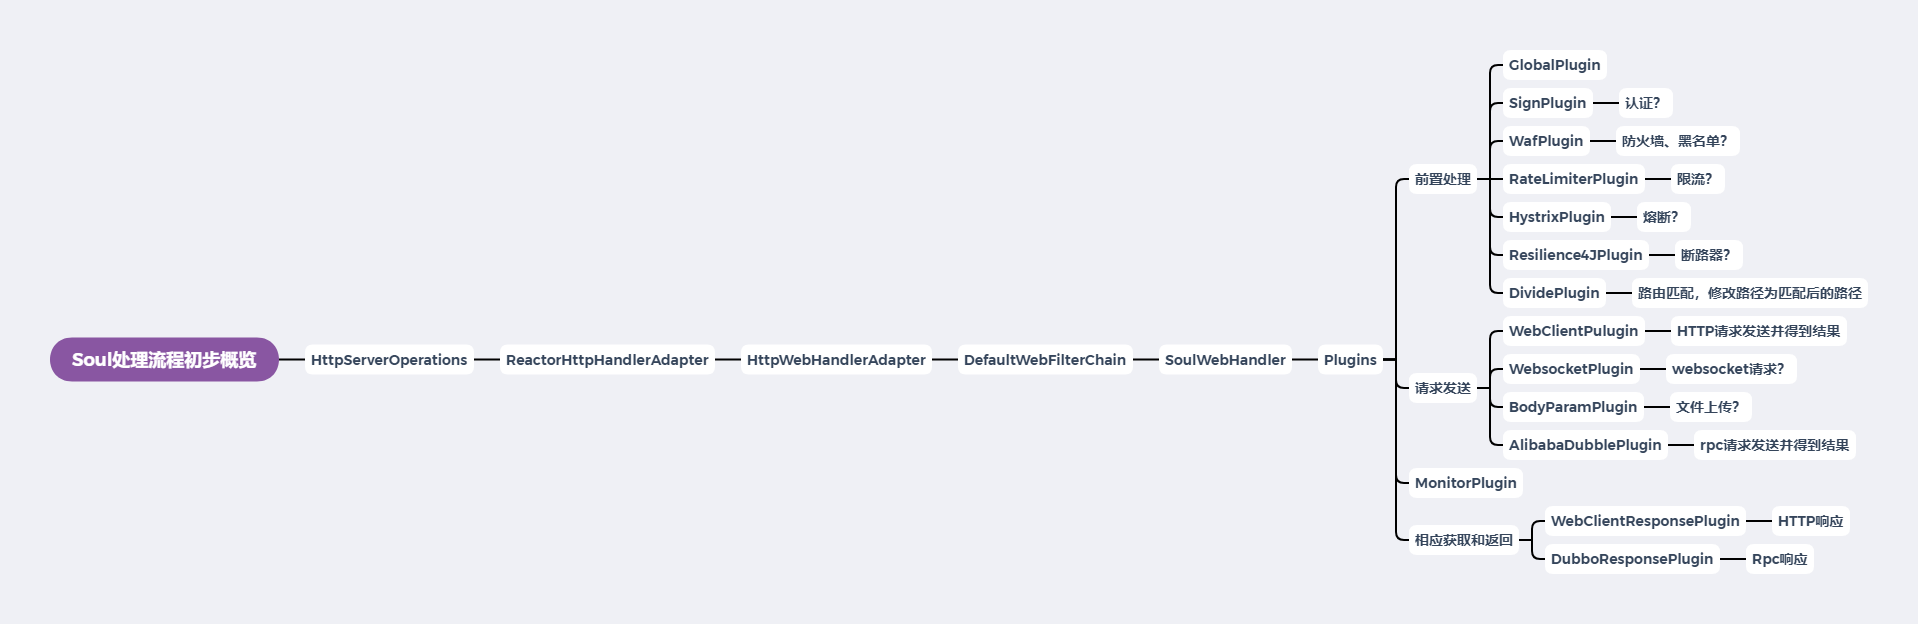
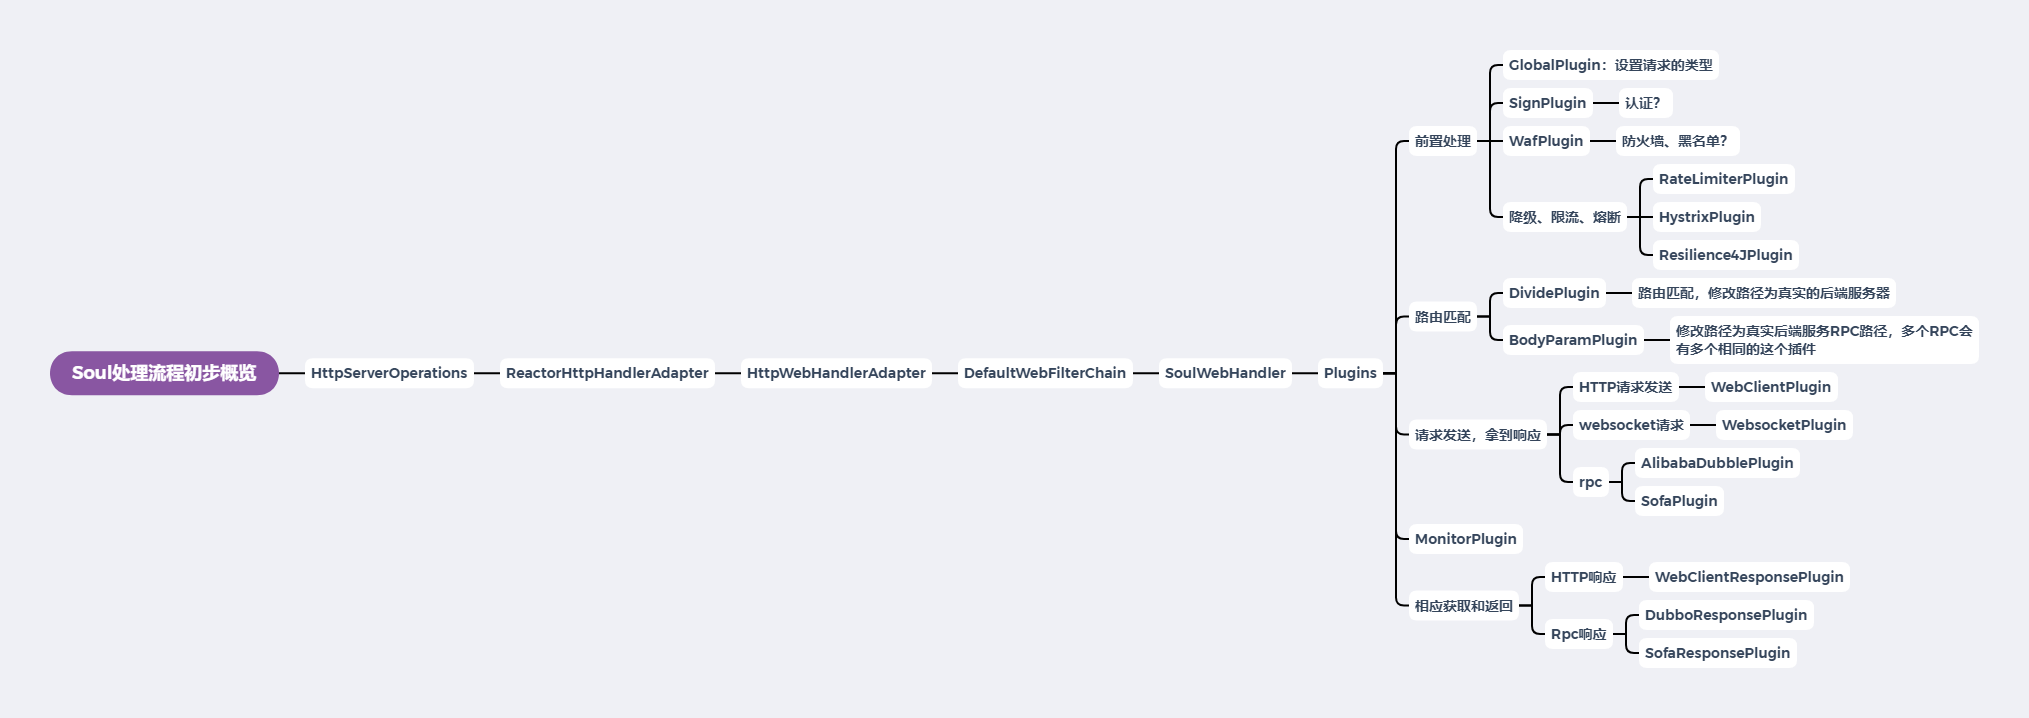
Soul 网关源码阅读（五）Sofa请求处理概览

diff --git a/profession/program/开源/soul/soul源码阅读6-sofa请求处理概览.md b/profession/program/开源/soul/soul源码阅读6-sofa请求处理概览.md
@@ -1,0 +1,356 @@
+# Soul 网关源码阅读（五）Sofa请求处理概览
+***
+## 简介
+&ensp;&ensp;&ensp;&ensp;今天来探索一下Sofa请求处理流程，看看和前面的HTTP、Dubbo有什么异同
+
+## Sofa示例运行
+*PS：如果请求加上参数运行不成功，请更新最新版本，此问题在新版本中已经修复：https://blog.csdn.net/baidu_27627251/article/details/112726694*
+*[Add sofa param resolve service](https://github.com/dromara/soul/pull/992)*
+
+&ensp;&ensp;&ensp;&ensp;首先运行下官方的Sofa示例，首先启动下mysql和zookeeper，这里使用docker启动：
+
+```shell script
+docker run -dit --name zk -p 2181:2181 zookeepe
+docker run --name mysql -p 3306:3306 -e MYSQL_ROOT_PASSWORD=123456 -d mysql:latest
+```
+
+&ensp;&ensp;&ensp;&ensp;然后运行Soul-admin，Soul-Bootst，在管理图界面起用sofa插件
+
+&ensp;&ensp;&ensp;&ensp;运行官方示例：soul-examples --> soul-examples-sofa
+
+&ensp;&ensp;&ensp;&ensp;这里有个坑，需要注意，启动后，bootstrap打印日志中没有sofa插件，请求一直失败
+
+```xml
+o.d.s.w.configuration.SoulConfiguration  : load plugin:[global] [org.dromara.soul.plugin.global.GlobalPlugin]
+o.d.s.w.configuration.SoulConfiguration  : load plugin:[sign] [org.dromara.soul.plugin.sign.SignPlugin]
+o.d.s.w.configuration.SoulConfiguration  : load plugin:[waf] [org.dromara.soul.plugin.waf.WafPlugin]
+o.d.s.w.configuration.SoulConfiguration  : load plugin:[rate_limiter] [org.dromara.soul.plugin.ratelimiter.RateLimiterPlugin]
+o.d.s.w.configuration.SoulConfiguration  : load plugin:[hystrix] [org.dromara.soul.plugin.hystrix.HystrixPlugin]
+o.d.s.w.configuration.SoulConfiguration  : load plugin:[resilience4j] [org.dromara.soul.plugin.resilience4j.Resilience4JPlugin]
+o.d.s.w.configuration.SoulConfiguration  : load plugin:[divide] [org.dromara.soul.plugin.divide.DividePlugin]
+o.d.s.w.configuration.SoulConfiguration  : load plugin:[webClient] [org.dromara.soul.plugin.httpclient.WebClientPlugin]
+o.d.s.w.configuration.SoulConfiguration  : load plugin:[divide] [org.dromara.soul.plugin.divide.websocket.WebSocketPlugin]
+o.d.s.w.configuration.SoulConfiguration  : load plugin:[alibaba-dubbo-body-param] [org.dromara.soul.plugin.alibaba.dubbo.param.BodyParamPlugin]
+o.d.s.w.configuration.SoulConfiguration  : load plugin:[dubbo] [org.dromara.soul.plugin.alibaba.dubbo.AlibabaDubboPlugin]
+o.d.s.w.configuration.SoulConfiguration  : load plugin:[monitor] [org.dromara.soul.plugin.monitor.MonitorPlugin]
+o.d.s.w.configuration.SoulConfiguration  : load plugin:[response] [org.dromara.soul.plugin.httpclient.response.WebClientResponsePlugin]
+o.d.s.w.configuration.SoulConfiguration  : load plugin:[response] [org.dromara.soul.plugin.alibaba.dubbo.response.DubboResponsePlugin]
+```xml
+
+&ensp;&ensp;&ensp;&ensp;查看初始的plugins也是没有sofa
+
+```java
+    public SoulWebHandler soulWebHandler(final ObjectProvider<List<SoulPlugin>> plugins) {
+        List<SoulPlugin> pluginList = plugins.getIfAvailable(Collections::emptyList);
+        final List<SoulPlugin> soulPlugins = pluginList.stream()
+                .sorted(Comparator.comparingInt(SoulPlugin::getOrder)).collect(Collectors.toList());
+        soulPlugins.forEach(soulPlugin -> log.info("load plugin:[{}] [{}]", soulPlugin.named(), soulPlugin.getClass().getName()));
+        return new SoulWebHandler(soulPlugins);
+    }
+```
+
+&ensp;&ensp;&ensp;&ensp;经过探索和老哥的讨论，发现是每天起用sofa的相关依赖
+
+&ensp;&ensp;&ensp;&ensp;我们在Bootstrap的pom.xml文件中添加下面的依赖，然后重启
+
+```xml
+        <!--        sofa plugin start-->
+        <dependency>
+            <groupId>com.alipay.sofa</groupId>
+            <artifactId>sofa-rpc-all</artifactId>
+            <version>5.7.6</version>
+        </dependency>
+        <dependency>
+            <groupId>org.apache.curator</groupId>
+            <artifactId>curator-client</artifactId>
+            <version>4.0.1</version>
+        </dependency>
+        <dependency>
+            <groupId>org.apache.curator</groupId>
+            <artifactId>curator-framework</artifactId>
+            <version>4.0.1</version>
+        </dependency>
+        <dependency>
+            <groupId>org.apache.curator</groupId>
+            <artifactId>curator-recipes</artifactId>
+            <version>4.0.1</version>
+        </dependency>
+        <dependency>
+            <groupId>org.dromara</groupId>
+            <artifactId>soul-spring-boot-starter-plugin-sofa</artifactId>
+            <version>${project.version}</version>
+        </dependency>
+        <!--        sofa plugin end-->
+```
+
+&ensp;&ensp;&ensp;&ensp;然后查看日志打印，出现了sofa相关的插件
+
+```xml
+o.d.s.w.configuration.SoulConfiguration  : load plugin:[global] [org.dromara.soul.plugin.global.GlobalPlugin]
+o.d.s.w.configuration.SoulConfiguration  : load plugin:[sign] [org.dromara.soul.plugin.sign.SignPlugin]
+o.d.s.w.configuration.SoulConfiguration  : load plugin:[waf] [org.dromara.soul.plugin.waf.WafPlugin]
+o.d.s.w.configuration.SoulConfiguration  : load plugin:[rate_limiter] [org.dromara.soul.plugin.ratelimiter.RateLimiterPlugin]
+o.d.s.w.configuration.SoulConfiguration  : load plugin:[hystrix] [org.dromara.soul.plugin.hystrix.HystrixPlugin]
+o.d.s.w.configuration.SoulConfiguration  : load plugin:[resilience4j] [org.dromara.soul.plugin.resilience4j.Resilience4JPlugin]
+o.d.s.w.configuration.SoulConfiguration  : load plugin:[divide] [org.dromara.soul.plugin.divide.DividePlugin]
+o.d.s.w.configuration.SoulConfiguration  : load plugin:[webClient] [org.dromara.soul.plugin.httpclient.WebClientPlugin]
+o.d.s.w.configuration.SoulConfiguration  : load plugin:[divide] [org.dromara.soul.plugin.divide.websocket.WebSocketPlugin]
+o.d.s.w.configuration.SoulConfiguration  : load plugin:[sofa-body-param] [org.dromara.soul.plugin.sofa.param.BodyParamPlugin]
+o.d.s.w.configuration.SoulConfiguration  : load plugin:[dubbo] [org.dromara.soul.plugin.alibaba.dubbo.AlibabaDubboPlugin]
+// 新出现的sofa相关的
+o.d.s.w.configuration.SoulConfiguration  : load plugin:[sofa] [org.dromara.soul.plugin.sofa.SofaPlugin]
+o.d.s.w.configuration.SoulConfiguration  : load plugin:[monitor] [org.dromara.soul.plugin.monitor.MonitorPlugin]
+o.d.s.w.configuration.SoulConfiguration  : load plugin:[response] [org.dromara.soul.plugin.alibaba.dubbo.response.DubboResponsePlugin]
+o.d.s.w.configuration.SoulConfiguration  : load plugin:[response] [org.dromara.soul.plugin.httpclient.response.WebClientResponsePlugin]
+// 新出现的sofa相关的
+o.d.s.w.configuration.SoulConfiguration  : load plugin:[response] [org.dromara.soul.plugin.sofa.response.SofaResponsePlugin]
+```
+
+&ensp;&ensp;&ensp;&ensp;日志中还打印了成功加载sofa相关的metadata
+
+```xml
+o.d.s.p.s.cache.ApplicationConfigCache   : init sofa reference success there meteData is :MetaData
+o.d.s.p.s.cache.ApplicationConfigCache   : init sofa reference success there meteData is :MetaData
+o.d.s.p.s.cache.ApplicationConfigCache   : init sofa reference success there meteData is :MetaData
+```
+
+&ensp;&ensp;&ensp;&ensp;访问链接： http://localhost:9195/sofa/findAll ，成功返回如下请求
+
+```json
+{
+    "code": 200,
+    "message": "Access to success!",
+    "data": {
+        "name": "hello world Soul Sofa , findAll",
+        "id": "998932133"
+    }
+}
+```
+
+## 源码解析
+*PS:Debug时间过程，会导致超时，这是正常的*
+
+&ensp;&ensp;&ensp;&ensp;首先找到我们非常熟悉的切入点函数： SoulWebHandler ，在下面的方法中打上断点，然后逐步进入每个plugin观察其行为
+
+```java
+        public Mono<Void> execute(final ServerWebExchange exchange) {
+            return Mono.defer(() -> {
+                if (this.index < plugins.size()) {
+                    SoulPlugin plugin = plugins.get(this.index++);
+                    Boolean skip = plugin.skip(exchange);
+                    if (skip) {
+                        return this.execute(exchange);
+                    }
+                    return plugin.execute(exchange, this);
+                }
+                return Mono.empty();
+            });
+        }
+```
+
+### GlobalPlugin
+&ensp;&ensp;&ensp;&ensp;进入其中，执行处理逻辑，通过上篇的分析，我们知道大致作用是将请求类型放入exchange中
+
+### SignPlugin/WafPlugin/RateLimiterPlugin/HystrixPlugin/Resilience4JPlugin
+&ensp;&ensp;&ensp;&ensp;进入其中，但plugin没有起用，不执行逻辑
+
+### DividePlugin/WebClientPlugin/WebSocketPlugin
+&ensp;&ensp;&ensp;&ensp;通过类型判断，跳过，不执行
+
+### BodyParamPlugin
+&ensp;&ensp;&ensp;&ensp;这个plugin在dubbo的时候也是要执行，我们来看看它干了写啥事。从下面逻辑中大概能看出先判断是否符合执行条件，然后将请求地址替换成真实的后端地址
+
+```java
+    public Mono<Void> execute(final ServerWebExchange exchange, final SoulPluginChain chain) {
+        final ServerHttpRequest request = exchange.getRequest();
+        final SoulContext soulContext = exchange.getAttribute(Constants.CONTEXT);
+        // 判断类型是不是sofa
+        if (Objects.nonNull(soulContext) && RpcTypeEnum.SOFA.getName().equals(soulContext.getRpcType())) {
+            MediaType mediaType = request.getHeaders().getContentType();
+            ServerRequest serverRequest = ServerRequest.create(exchange, messageReaders);
+            if (MediaType.APPLICATION_JSON.isCompatibleWith(mediaType)) {
+                return body(exchange, serverRequest, chain);
+            }
+            if (MediaType.APPLICATION_FORM_URLENCODED.isCompatibleWith(mediaType)) {
+                return formData(exchange, serverRequest, chain);
+            }
+            // 进行路径替换，换成后端服务器的
+            return query(exchange, serverRequest, chain);
+        }
+        return chain.execute(exchange);
+    }
+
+    private Mono<Void> query(final ServerWebExchange exchange, final ServerRequest serverRequest, final SoulPluginChain chain) {
+        exchange.getAttributes().put(Constants.SOFA_PARAMS,
+                HttpParamConverter.ofString(() -> serverRequest.uri().getQuery()));
+        return chain.execute(exchange);
+    }
+```
+
+&ensp;&ensp;&ensp;&ensp;这里有个非常有趣的现象，我们第四篇分析中，dubbo也走了一模一样的类，在上面函数逻辑中，我们看出它并不能兼容dubbo，那dubbo是如何走这个类的呢？
+
+&ensp;&ensp;&ensp;&ensp;通过调试我们发现，当同时启动dubbo和sofa的时候，会生成两个BodyParamPlugin,名称是一模一样的，但里面的判断类型换了，很神奇，猜测这个类是动态生成之类的手段，这里先不探索了，可以后面研究研究
+
+### AlibabaDubboPlugin
+&ensp;&ensp;&ensp;&ensp;通过类型判断，跳过
+
+### SofaPlugin
+&ensp;&ensp;&ensp;&ensp;这个从名字就看出来是核心类，我们看看它具体干了啥。通过下面注释的地方，可以看出和dubbo请求的非常的相像。进行路由匹配，成功后rpc调用，获得结果后放入exchange中
+
+```java
+    # AbstractSoulPlugin
+    public Mono<Void> execute(final ServerWebExchange exchange, final SoulPluginChain chain) {
+        String pluginName = named();
+        final PluginData pluginData = BaseDataCache.getInstance().obtainPluginData(pluginName);
+        if (pluginData != null && pluginData.getEnabled()) {
+            final Collection<SelectorData> selectors = BaseDataCache.getInstance().obtainSelectorData(pluginName);
+            if (CollectionUtils.isEmpty(selectors)) {
+                return handleSelectorIsNull(pluginName, exchange, chain);
+            }
+            final SelectorData selectorData = matchSelector(exchange, selectors);
+            if (Objects.isNull(selectorData)) {
+                return handleSelectorIsNull(pluginName, exchange, chain);
+            }
+            selectorLog(selectorData, pluginName);
+            final List<RuleData> rules = BaseDataCache.getInstance().obtainRuleData(selectorData.getId());
+            if (CollectionUtils.isEmpty(rules)) {
+                return handleRuleIsNull(pluginName, exchange, chain);
+            }
+            // 判断是否有路由规则能匹配上
+            RuleData rule;
+            if (selectorData.getType() == SelectorTypeEnum.FULL_FLOW.getCode()) {
+                //get last
+                rule = rules.get(rules.size() - 1);
+            } else {
+                rule = matchRule(exchange, rules);
+            }
+            if (Objects.isNull(rule)) {
+                return handleRuleIsNull(pluginName, exchange, chain);
+            }
+            ruleLog(rule, pluginName);
+            // 匹配上后执行处理逻辑
+            return doExecute(exchange, chain, selectorData, rule);
+        }
+        return chain.execute(exchange);
+    }
+
+    # SofaPlugin
+    protected Mono<Void> doExecute(final ServerWebExchange exchange, final SoulPluginChain chain, final SelectorData selector, final RuleData rule) {
+        String body = exchange.getAttribute(Constants.SOFA_PARAMS);
+        SoulContext soulContext = exchange.getAttribute(Constants.CONTEXT);
+        assert soulContext != null;
+        MetaData metaData = exchange.getAttribute(Constants.META_DATA);
+        if (!checkMetaData(metaData)) {
+            assert metaData != null;
+            log.error(" path is :{}, meta data have error.... {}", soulContext.getPath(), metaData.toString());
+            exchange.getResponse().setStatusCode(HttpStatus.INTERNAL_SERVER_ERROR);
+            Object error = SoulResultWrap.error(SoulResultEnum.META_DATA_ERROR.getCode(), SoulResultEnum.META_DATA_ERROR.getMsg(), null);
+            return WebFluxResultUtils.result(exchange, error);
+        }
+        if (StringUtils.isNoneBlank(metaData.getParameterTypes()) && StringUtils.isBlank(body)) {
+            exchange.getResponse().setStatusCode(HttpStatus.INTERNAL_SERVER_ERROR);
+            Object error = SoulResultWrap.error(SoulResultEnum.SOFA_HAVE_BODY_PARAM.getCode(), SoulResultEnum.SOFA_HAVE_BODY_PARAM.getMsg(), null);
+            return WebFluxResultUtils.result(exchange, error);
+        }
+        // 这里得到结果，跟下去
+        final Mono<Object> result = sofaProxyService.genericInvoker(body, metaData, exchange);
+        return result.then(chain.execute(exchange));
+    }
+
+    # SofaProxyService
+    public Mono<Object> genericInvoker(final String body, final MetaData metaData, final ServerWebExchange exchange) throws SoulException {
+        // 根据请求路径，获得rpc中的consumer 
+        ConsumerConfig<GenericService> reference = ApplicationConfigCache.getInstance().get(metaData.getPath());
+        if (Objects.isNull(reference) || StringUtils.isEmpty(reference.getInterfaceId())) {
+            ApplicationConfigCache.getInstance().invalidate(metaData.getServiceName());
+            reference = ApplicationConfigCache.getInstance().initRef(metaData);
+        }
+        GenericService genericService = reference.refer();
+        Pair<String[], Object[]> pair;
+        if (null == body || "".equals(body) || "{}".equals(body) || "null".equals(body)) {
+            pair = new ImmutablePair<>(new String[]{}, new Object[]{});
+        } else {
+            pair = sofaParamResolveService.buildParameter(body, metaData.getParameterTypes());
+        }
+        CompletableFuture<Object> future = new CompletableFuture<>();
+        RpcInvokeContext.getContext().setResponseCallback(new SofaResponseCallback<Object>() {
+            @Override
+            public void onAppResponse(final Object o, final String s, final RequestBase requestBase) {
+                future.complete(o);
+            }
+
+            @Override
+            public void onAppException(final Throwable throwable, final String s, final RequestBase requestBase) {
+                future.completeExceptionally(throwable);
+            }
+
+            @Override
+            public void onSofaException(final SofaRpcException e, final String s, final RequestBase requestBase) {
+                future.completeExceptionally(e);
+            }
+        });
+        // 通过函数名，能猜到是rpc调用，然后得到结果，并将结果放入exchange中
+        genericService.$invoke(metaData.getMethodName(), pair.getLeft(), pair.getRight());
+        return Mono.fromFuture(future.thenApply(ret -> {
+            if (Objects.isNull(ret)) {
+                ret = Constants.SOFA_RPC_RESULT_EMPTY;
+            }
+            exchange.getAttributes().put(Constants.SOFA_RPC_RESULT, ret);
+            exchange.getAttributes().put(Constants.CLIENT_RESPONSE_RESULT_TYPE, ResultEnum.SUCCESS.getName());
+            return ret;
+        })).onErrorMap(SoulException::new);
+    }
+```
+### MonitorPlugin
+&ensp;&ensp;&ensp;&ensp;不跳过，但插件没有开启
+
+### DubboResponsePlugin/WebClientResponsePlugin
+&ensp;&ensp;&ensp;&ensp;通过类型判断，跳过执行
+
+### SofaResponsePlugin
+&ensp;&ensp;&ensp;&ensp;通过上几篇分析和名字能猜出来是将响应返回给客户端的，通过下面代码的逻辑也可以看出 
+
+```java
+    public Mono<Void> execute(final ServerWebExchange exchange, final SoulPluginChain chain) {
+        return chain.execute(exchange).then(Mono.defer(() -> {
+            // 从exchange中获取结果
+            final Object result = exchange.getAttribute(Constants.SOFA_RPC_RESULT);
+            if (Objects.isNull(result)) {
+                Object error = SoulResultWrap.error(SoulResultEnum.SERVICE_RESULT_ERROR.getCode(), SoulResultEnum.SERVICE_RESULT_ERROR.getMsg(), null);
+                return WebFluxResultUtils.result(exchange, error);
+            }
+            Object success = SoulResultWrap.success(SoulResultEnum.SUCCESS.getCode(), SoulResultEnum.SUCCESS.getMsg(), JsonUtils.removeClass(result));
+            // 熟悉的返回响应的函数
+            return WebFluxResultUtils.result(exchange, success);
+        }));
+    }
+```
+
+## 总结
+&ensp;&ensp;&ensp;&ensp;上面的plugin流程大致如下：
+
+- GlobalPlugin : 将请求类型置入
+- SignPlugin : 跳过不执行逻辑
+- WafPlugin : 跳过不执行逻辑
+- RateLimiterPlugin : 跳过不执行逻辑
+- HystrixPlugin : 跳过不执行逻辑
+- Resilience4JPlugin : 跳过不执行逻辑
+- DividePlugin : 跳过不执行逻辑
+- WebClientPlugin : 跳过不执行逻辑
+- WebSocketPlugin : 跳过不执行逻辑
+- BodyParamPlugin : 执行RPC的请求路径替换，替换成真实的服务器后端路径，作用类似于dividePlugin；不同rpc有相关的这个插件名，也就是会有多个BodyParamPlugin
+- AlibabaDubboPlugin : 跳过不执行逻辑
+- SofaPlugin : 发送请求到后台服务器，拿到结果，写入exchange
+- MonitorPlugin : 跳过不执行逻辑
+- DubboResponsePlugin : 跳过不执行逻辑
+- WebClientResponsePlugin : 跳过不执行逻辑
+- SofaResponsePlugin : 从exchange中拿到响应，发送给客户端
+
+&ensp;&ensp;&ensp;&ensp;经过这几篇的分析，我们进一步优化我们对Soul网关的请求流程，大致如下：
+
+![](./picture/Soulprocessfirst.png)
+
+&ensp;&ensp;&ensp;&ensp;更新了我们对处理流程中一些类的认知：
+
+- 通过上篇分析，得到GlobalPlugin的具体作用，是置入请求类型
+- BodyParamPlugin 作用类似于 dividePlugin，能进行路由匹配，匹配后将路径修改真实的后端服务器路径；并且能动态的生成同名的但针对不同rpc实现的plugin
